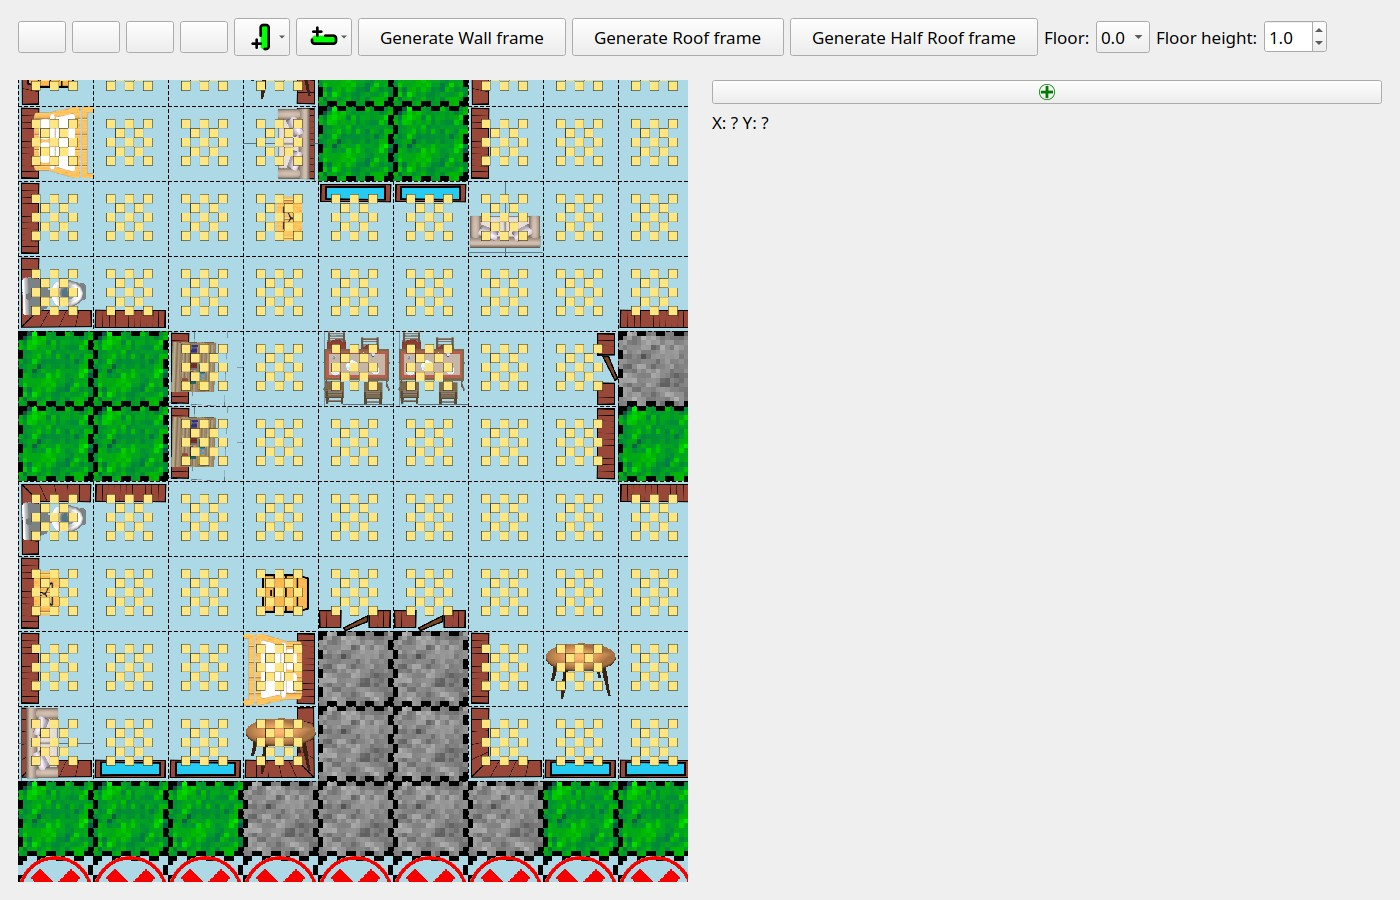
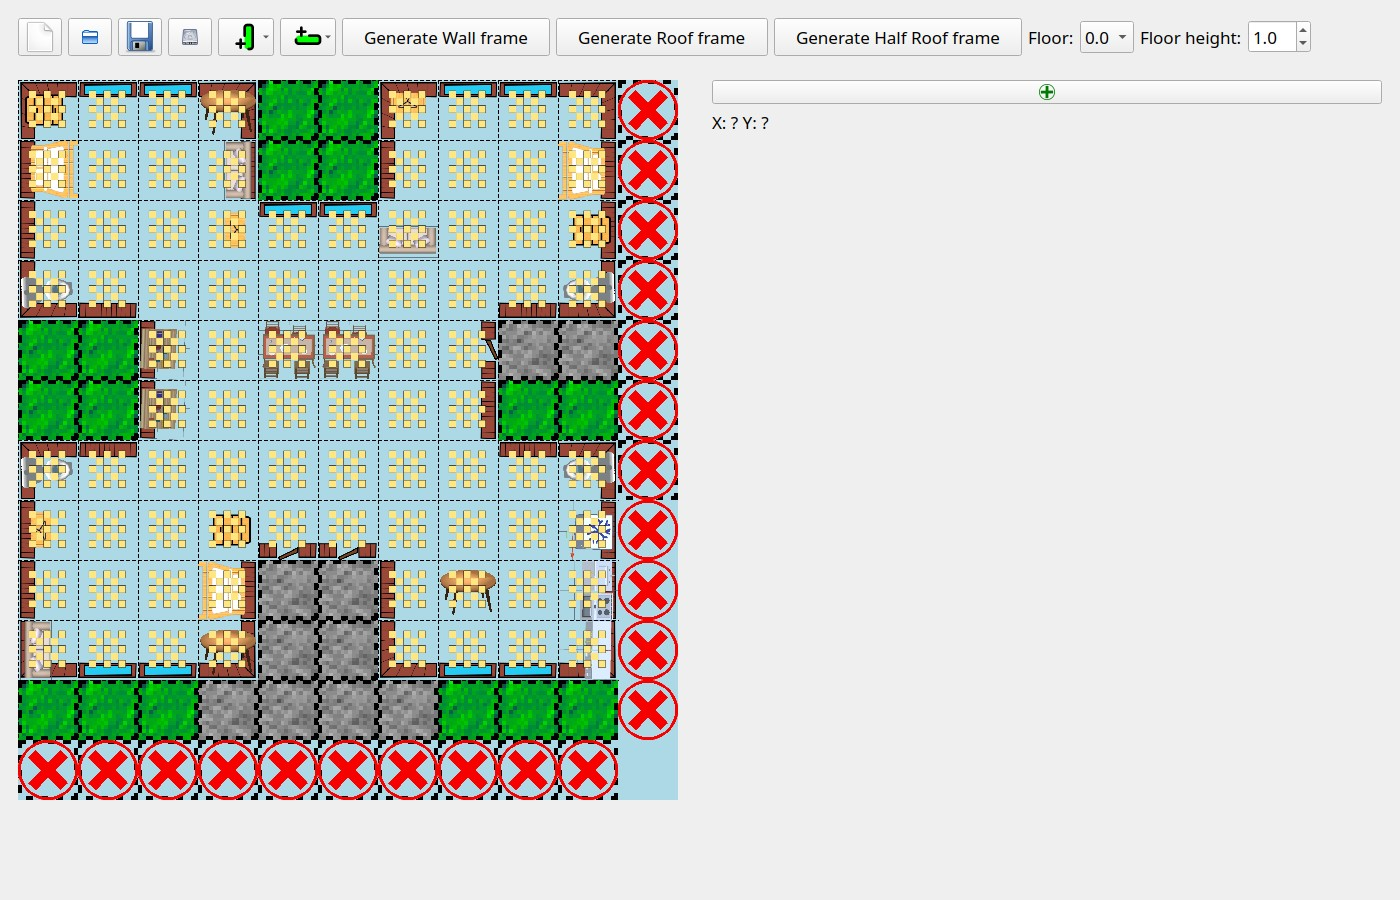
Fix screenshot clipping

diff --git a/modules/MapWidget.py b/modules/MapWidget.py
@@ -103,12 +103,18 @@ class MapWidget(QWidget):
             rows = rows + 1
             cols = cols + 1
 
-        maxWidth = 1400
-        maxHeight = 900
+        # Fit into the space the layout actually gives this widget; hardcoded
+        # window-size maxima produced a pixmap larger than the visible label
+        # (window minus toolbar and properties panel) and clipped the map.
+        margins = self._layout.contentsMargins()
+        maxWidth = max(self.width() - margins.left() - margins.right(), 640)
+        maxHeight = max(self.height() - margins.top() - margins.bottom(), 480)
 
         wPixPerSquare = math.floor(maxWidth / cols)
         hPixPerSquare = math.floor(maxHeight / rows)
-        self.pixPerTile = min(wPixPerSquare, hPixPerSquare)
+        # Never zero: a huge map on a small viewport would still need a
+        # drawable (if clipped) canvas.
+        self.pixPerTile = max(4, min(wPixPerSquare, hPixPerSquare))
 
         print("---> SIZE = " + str(cols*self.pixPerTile) + " x " +  str(rows*self.pixPerTile) + "; px= " + str(self.pixPerTile))
 
